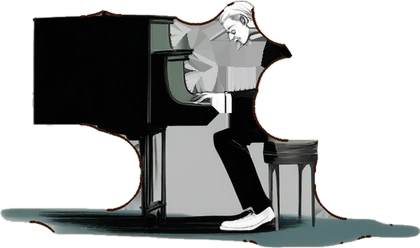
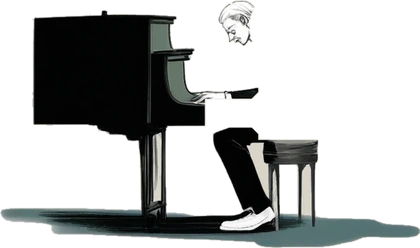
Marionnettes : pianiste sans le pan gris derrière les mains ; le moteur joue sur un fond donné (?fond=, ?sol=, plusieurs ?perso=)

diff --git a/marionnettes.html b/marionnettes.html
@@ -26,7 +26,7 @@
 // Il lit la fiche de chaque personnage (marionnettes/<id>/montage.json, faite par recette/marionnette.py) : pièces placées
 // sur l'image du roster, rôles, pivots, gestes. Quatre façons de bouger : marche, sautille, glisse, roule. La marionnette
 // avance du côté où elle regarde (miroir sinon). Règle Greenlight : chacun a sa séquence de gestes à lui.
-// ?perso=<id> | ?tous=1 · ?t=12.5 fige · ?apercu=1 filme selon marionnettes/apercu.json et envoie la vidéo.
+// ?perso=<id>[,<id>…] | ?tous=1 · ?fond=<image> (fond donné) · ?sol=<y> (ligne du sol) · ?t=12.5 fige · ?apercu=1 filme selon marionnettes/apercu.json et envoie la vidéo.
 const W = 1280, H = 720;
 const cv = document.getElementById("scene"), cx = cv.getContext("2d");
 const Q = new URLSearchParams(location.search);
@@ -41,6 +41,8 @@ const DECOR = { fond: "cartes/fond-vallee.webp", buisson: "img/v3/decor-buisson.
 // ── le décor ──────────────────────────────────────────────────────────────────────────────────────────────
 function pose(im, x, y, l) { if (im) cx.drawImage(im, x, y - l * im.height / im.width, l, l * im.height / im.width); }
 function decor() {
+  // ?fond=<image> : un fond donné (Greenlight nuit…) remplace le décor de la Vallée, posé plein cadre
+  if (FOND_DONNE) { cx.drawImage(FOND_DONNE, 0, 0, W, H); return; }
   const f = DECOR.fond;
   if (f) { cx.filter = "blur(3px) brightness(0.78) saturate(0.9)"; cx.drawImage(f, 0, -60, W, W * f.height / f.width); cx.filter = "none"; }
   const g = cx.createLinearGradient(0, 470, 0, H);
@@ -285,7 +287,9 @@ function dessiner(t) {
     const s = etat(f, loc);
     const larg = (f.emprise.x1 - f.emprise.x0) * f.echelle;
     const x = (f.mouvement || {}).mode === "assis" ? W / 2 : dir > 0 ? -larg / 2 - 80 + s.d : W + larg / 2 + 80 - s.d;
-    const sol = PERSOS.length > 1 ? 560 + (i % 4) * 42 : 668;
+    // ?sol=<y> : la ligne du sol sur un fond donné ; plusieurs personnages s'étagent de 42 px vers l'avant
+    const solBase = Q.has("sol") ? parseFloat(Q.get("sol")) : (PERSOS.length > 1 ? 560 : 668);
+    const sol = PERSOS.length > 1 ? solBase + (i % 4) * 42 : solBase;
     dessinerPerso(f, loc, x, sol, dir);
   });
 }
@@ -316,7 +320,8 @@ async function filmer(sec, vers) {
   const id = Q.get("perso");
   sel.value = id || "";
   sel.onchange = () => { location.search = sel.value ? "?perso=" + sel.value : "?tous=1"; };
-  const ids = id ? [id] : liste.map(i => i.id);
+  if (Q.has("fond")) FOND_DONNE = await charger(Q.get("fond"));
+  const ids = id ? id.split(",") : liste.map(i => i.id);              // ?perso=a,b,c : plusieurs choisis
   PERSOS = (await Promise.all(ids.map(chargerPerso))).filter(Boolean);
   document.getElementById("filmer").onclick = () => filmer(20, null);
   if (FIGE !== null) { document.getElementById("barre").remove(); dessiner(FIGE); document.title = "pret"; return; }
